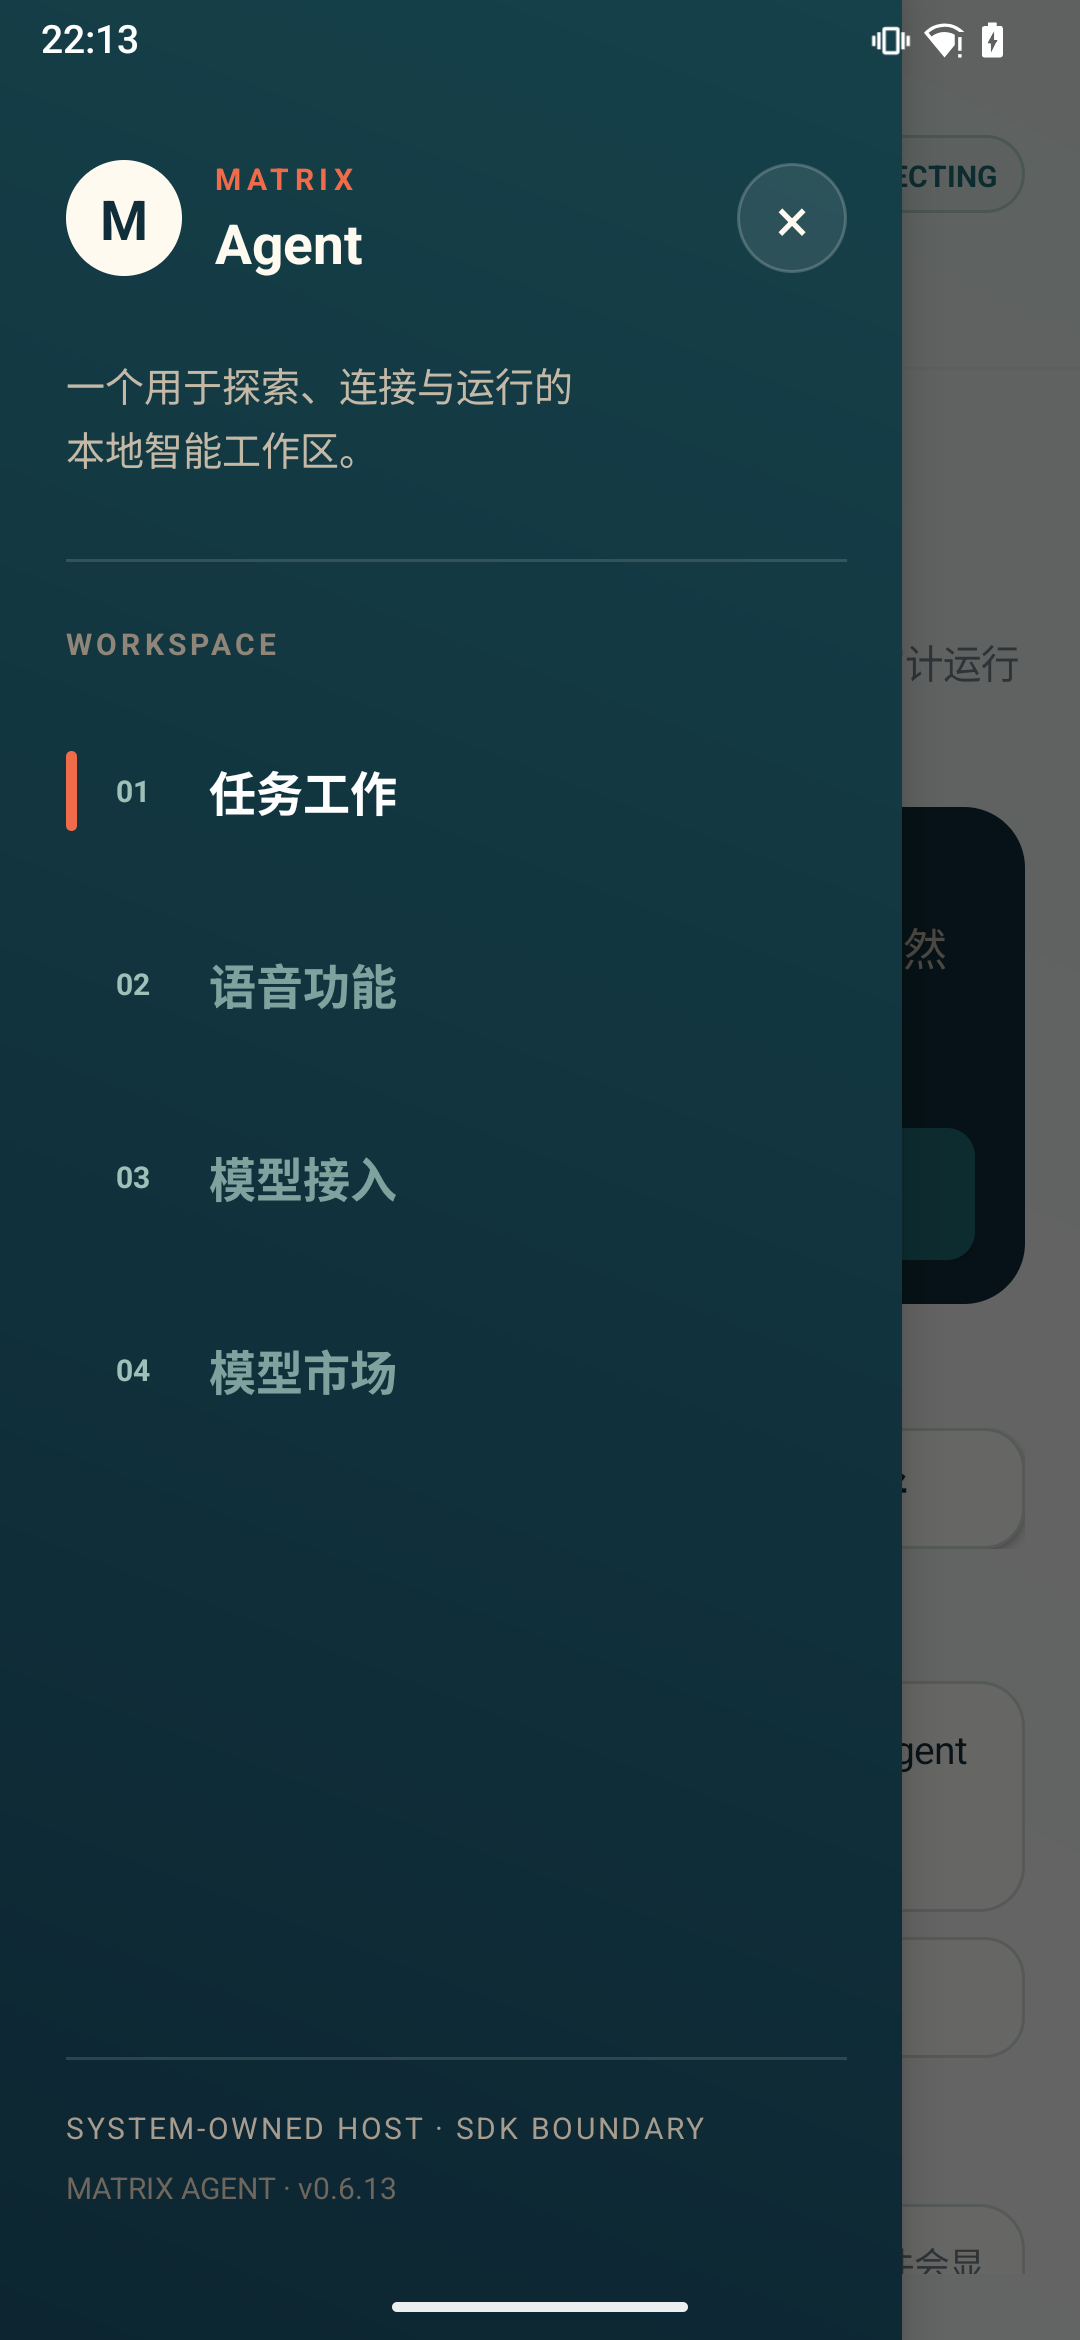
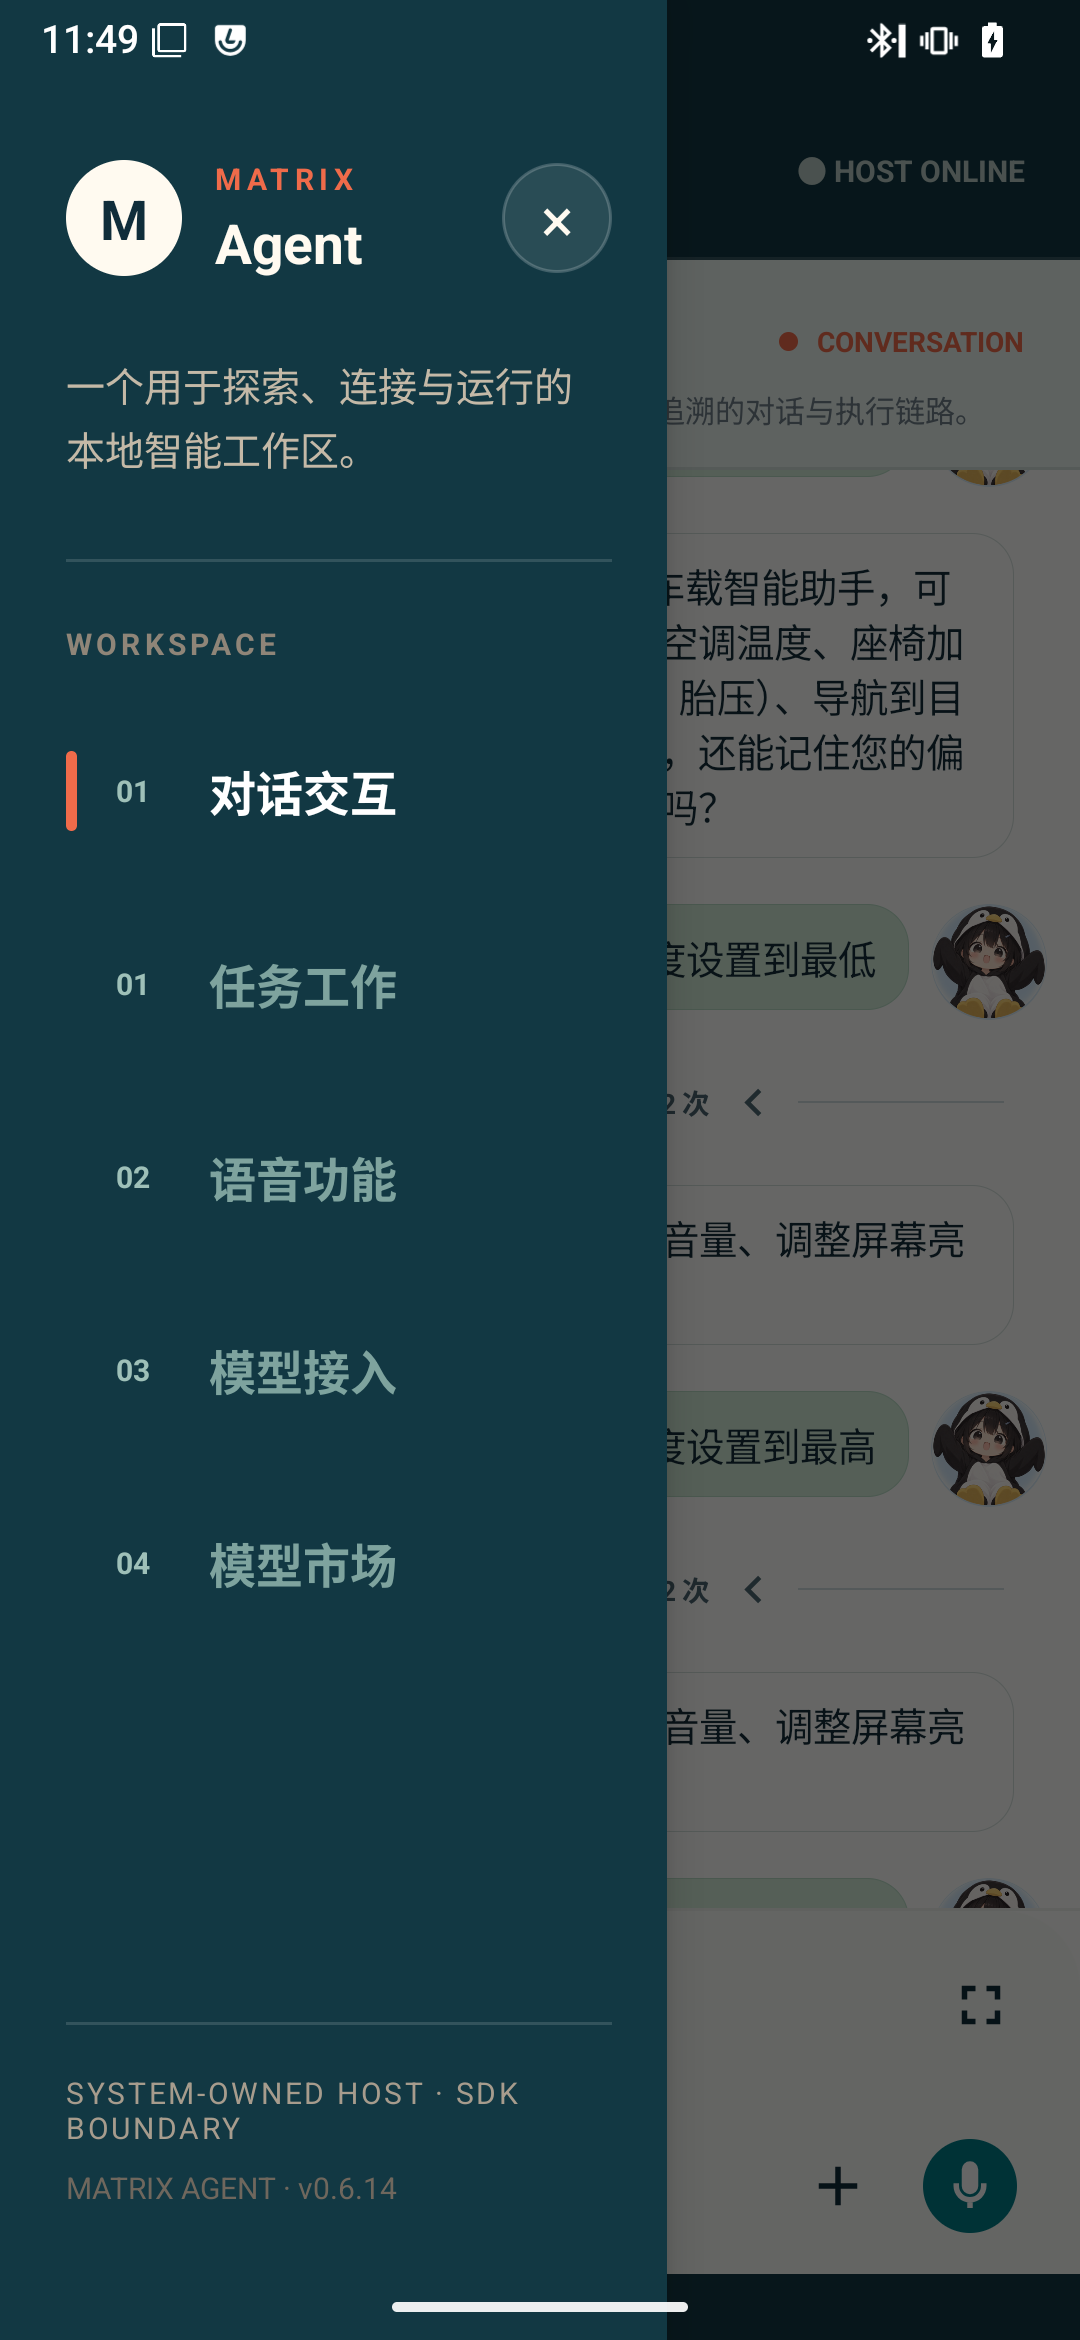
docs: refresh README and current device screenshots
(cherry picked from commit cfc48592c326999542ca3831f27da74f644aa458)

diff --git a/docs/images/README.md b/docs/images/README.md
@@ -1,0 +1,36 @@
+# README 界面截图
+
+## 采集基线
+
+- 日期：2026-09-25
+- 设备：Mi 9 SE（`grus`），Android 15 / LineageOS 22.2
+- Launcher：`com.matrix.agent.launcher`，v0.6.14（versionCode 6014）
+- 图片：1080 × 2340，PNG，ADB 原始截屏；保留系统状态栏与导航栏，未合成或替换界面内容。
+- Host：截图时为 `HOST ONLINE`。会话、当前模型和安装状态均为采集时的实际状态，不是默认配置。
+
+## 页面清单
+
+| 图片 | 展示内容 |
+|---|---|
+| [launcher-conversation.png](launcher-conversation.png) | 对话消息、多步执行结果、工具折叠入口、模型胶囊与输入栏 |
+| [launcher-tasks.png](launcher-tasks.png) | 自然语言任务输入、快捷入口、任务状态与轨迹区域 |
+| [launcher-voice.png](launcher-voice.png) | 等待录音状态、录音 / 打断控制、实时转写与 TTS 配置入口 |
+| [launcher-models.png](launcher-models.png) | 生效中的模型运行时与待提交的配置表单；表单值不代表已生效模型 |
+| [launcher-downloads.png](launcher-downloads.png) | 模型市场滚动视图，包含下载状态、本地库存与 MNN 模型卡片 |
+| [launcher-drawer.png](launcher-drawer.png) | 五个工作区入口与当前版本 |
+
+对话图保留设备上既有的音量、亮度交互记录及转写文本。截图采集仅浏览页面，没有为展示重新执行这些操作。车辆能力的 OEM 集成范围见[主 README](../../README.md#当前边界)。
+
+## 更新方式
+
+在与源码版本一致的设备上启动 Launcher，等待 Host 连接，导航到目标页面；输入法、对话框和瞬时提示收起后再截图。模型表单保持凭据为空，只展示运行时投影；不要将密钥、私人地址或其他个人信息提交到公共仓库。
+
+从仓库根目录采集，例如：
+
+```bash
+adb shell am start -n com.matrix.agent.launcher/.LauncherActivity
+# 在设备上打开目标页面，再保存对应图片。
+adb exec-out screencap -p > docs/images/launcher-conversation.png
+```
+
+逐张查看完整图片，确认页面、版本、连接状态与内容适合公开展示。同步更新本文件的采集基线及主 README 的日期、图片标题和引用；保持相对路径，以便各分支与本地预览均可使用。
